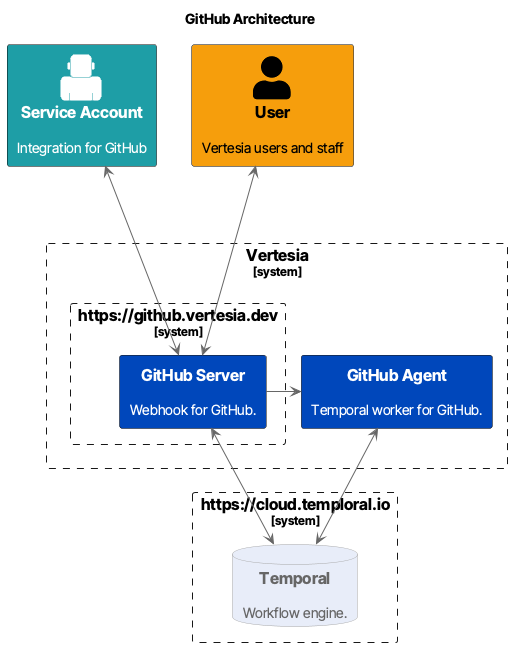
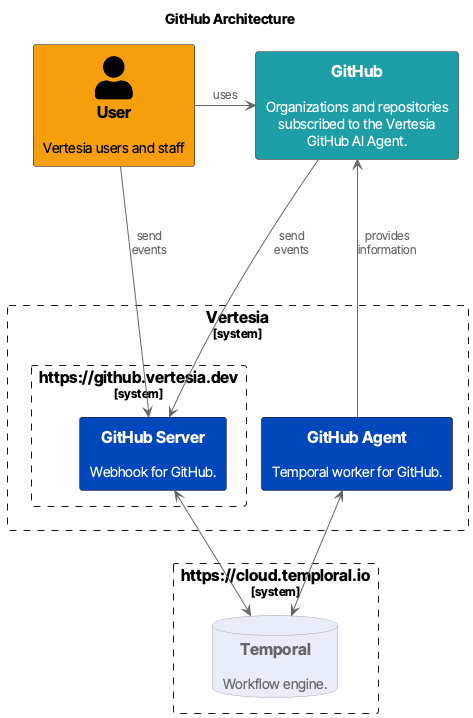
Add hook for GitHub (#39)
* Add hook for GitHub

* Update diagram

diff --git a/apps/github-server/api/hook.ts b/apps/github-server/api/hook.ts
@@ -1,0 +1,43 @@
+import { VercelRequest, VercelResponse } from '@vercel/node';
+import { createHmac, timingSafeEqual } from 'crypto';
+
+const GITHUB_SECRET = process.env.GITHUB_SECRET || '';
+
+function verifySignature(req: VercelRequest): boolean {
+  const signature = req.headers['x-hub-signature-256'] as string;
+  if (!signature || !GITHUB_SECRET) {
+    return false;
+  }
+
+  const hmac = createHmac('sha256', GITHUB_SECRET);
+  const digest = 'sha256=' + hmac.update(JSON.stringify(req.body)).digest('hex');
+  return timingSafeEqual(Buffer.from(signature), Buffer.from(digest));
+}
+
+export default async function handler(req: VercelRequest, res: VercelResponse) {
+  if (req.method !== 'POST') {
+    return res.status(405).json({ error: 'Method Not Allowed' });
+  }
+
+  if (!verifySignature(req)) {
+    return res.status(401).json({ error: 'Invalid signature' });
+  }
+
+  const event = req.headers['x-github-event'];
+  console.log(`Received GitHub event: ${event}`);
+  console.log('Payload:', req.body);
+
+  // Handle specific GitHub events if needed
+  switch (event) {
+    case 'push':
+      console.log('Push event detected');
+      break;
+    case 'pull_request':
+      console.log('Pull request event detected');
+      break;
+    default:
+      console.log('Unhandled event type');
+  }
+
+  return res.status(200).json({ message: 'Webhook received' });
+}
